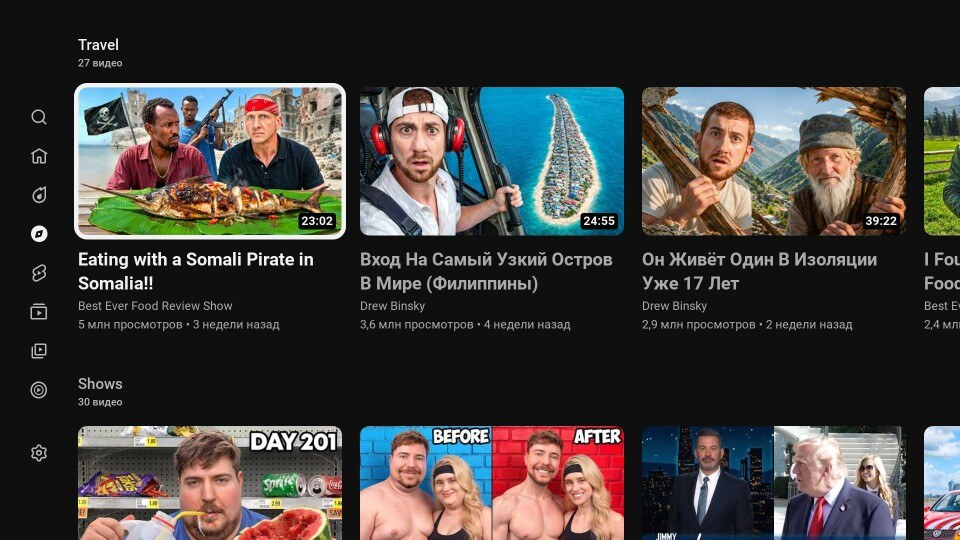
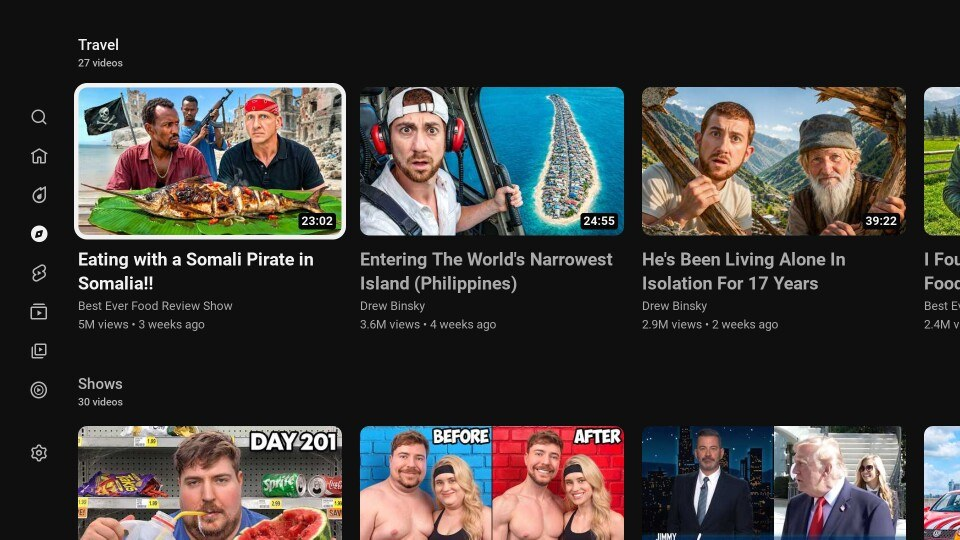
docs: English screenshots (the pages in an English YouTube interface), README mentions the two languages

diff --git a/README.md b/README.md
@@ -53,6 +53,8 @@ instead, on every page. ([`src/guide-fit/`](src/guide-fit))
 ### Smaller things
 
 - Movies, Gaming and Sports are hidden from the menu.
+- Trends and Picks speak Russian when YouTube's interface is Russian and English
+  otherwise; video titles are requested in the same language.
 
 ## Building
 
